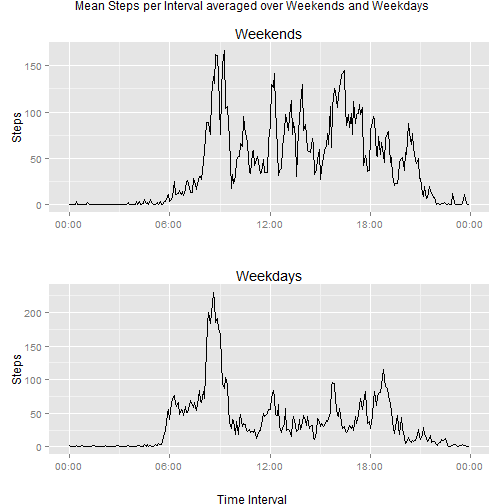
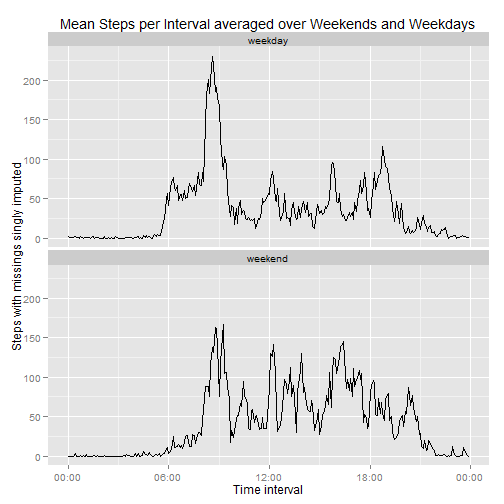
Prettied up a couple output items, and made the last graph to explicity use faceting

Changed region(s): [[0.0, 0.0, 0.9821, 1.0]]

diff --git a/PA1_template.html b/PA1_template.html
@@ -207,13 +207,8 @@ hr {
 
 <pre><code class="r">library(ggplot2)
 library(scales)
-library(gridExtra)
-</code></pre>
-
-<pre><code>## Loading required package: grid
-</code></pre>
-
-<pre><code class="r">datadir &lt;- &quot;.&quot;  # change for other locations
+library(reshape2)
+datadir &lt;- &quot;.&quot;  # change for other locations
 activity &lt;- read.csv(paste(datadir, &quot;/activity.csv&quot;, sep = &quot;&quot;), stringsAsFactors = FALSE)
 </code></pre>
 
@@ -302,10 +297,12 @@ qq
 
 <h3>The interval with the maximum number of steps</h3>
 
-<pre><code class="r">names(which.max(MeanStepsPerInterval))
+<pre><code class="r">maxname &lt;- as.numeric(names(which.max(MeanStepsPerInterval)))
+timename &lt;- sprintf(&quot;%02d:%02d&quot;, maxname %/% 100, maxname %% 100)
+print (timename, quote = FALSE)
 </code></pre>
 
-<pre><code>## [1] &quot;835&quot;
+<pre><code>## [1] 08:35
 </code></pre>
 
 <h2>Imputing missing values</h2>
@@ -389,43 +386,31 @@ ppi
 <pre><code class="r"># convert the character string into a date
 activity$daytype &lt;- ifelse(weekdays(as.Date(activity$date)) %in% c(&quot;Saturday&quot;, &quot;Sunday&quot;), &quot;weekend&quot;, &quot;weekday&quot;)
 
-# it ought to be possible to do the two graphs in one fell swoop using a facets approach
-# the timing is such that I will just try to do them one at a time and then use grid.arrange
-# come back to the point later
-weekdayactivity &lt;- activity[activity$daytype == &quot;weekday&quot;,]
-weekendactivity &lt;- activity[activity$daytype == &quot;weekend&quot;,]
 
-
-weekdayMeanStepsPerInterval &lt;- tapply(weekdayactivity$imputedsteps, weekdayactivity$interval, mean)
-weekdayMeanFrame &lt;- data.frame(interval = as.numeric(names(weekdayMeanStepsPerInterval)), 
-                               MeanSteps = weekdayMeanStepsPerInterval)
-weekdayMeanFrame$hm &lt;- sprintf(&quot;%02d:%02d&quot;, weekdayMeanFrame$interval %/% 100, weekdayMeanFrame$interval %% 100)
-weekdayMeanFrame$time &lt;- strptime(weekdayMeanFrame$hm, &quot;%H:%M&quot;) 
-weekdayMeanFrame$timec &lt;- as.POSIXct(weekdayMeanFrame$time)
-
-qweekday &lt;- ggplot(weekdayMeanFrame, aes(x = timec, y = MeanSteps)) + 
-     scale_x_datetime(labels = date_format(&quot;%H:%M&quot;)) +
-     ggtitle(&quot;Weekdays&quot;) + labs(x = &quot;&quot;, y = &quot;Steps&quot;) +
-     layer(geom = &quot;line&quot;)
-
-
-weekendMeanStepsPerInterval &lt;- tapply(weekendactivity$imputedsteps, weekendactivity$interval, mean)
-weekendMeanFrame &lt;- data.frame(interval = as.numeric(names(weekendMeanStepsPerInterval)), 
-                               MeanSteps = weekendMeanStepsPerInterval)
-weekendMeanFrame$hm &lt;- sprintf(&quot;%02d:%02d&quot;, weekendMeanFrame$interval %/% 100, weekendMeanFrame$interval %% 100)
-weekendMeanFrame$time &lt;- strptime(weekendMeanFrame$hm, &quot;%H:%M&quot;) 
-weekendMeanFrame$timec &lt;- as.POSIXct(weekendMeanFrame$time)
-
-qweekend &lt;- ggplot(weekendMeanFrame, aes(x = timec, y = MeanSteps)) + 
-     scale_x_datetime(labels = date_format(&quot;%H:%M&quot;)) +
-     ggtitle(&quot;Weekends&quot;) + labs(x = &quot;&quot;, y = &quot;Steps&quot;) +
-     layer(geom = &quot;line&quot;) 
-
-grid.arrange(qweekend, qweekday, nrow=2, main = &quot;Mean Steps per Interval averaged over Weekends and Weekdays&quot;,
-             sub = &quot;Time Interval&quot;)
+activitymelt &lt;- melt(activity, id = c(&quot;interval&quot;, &quot;daytype&quot;), measure.vars = (&quot;imputedsteps&quot;))
+str(activitymelt)
 </code></pre>
 
[1 lines of base64/hex data omitted]
+<pre><code>## &#39;data.frame&#39;:    17568 obs. of  4 variables:
+##  $ interval: int  0 5 10 15 20 25 30 35 40 45 ...
+##  $ daytype : chr  &quot;weekday&quot; &quot;weekday&quot; &quot;weekday&quot; &quot;weekday&quot; ...
+##  $ variable: Factor w/ 1 level &quot;imputedsteps&quot;: 1 1 1 1 1 1 1 1 1 1 ...
+##  $ value   : num  1.717 0.3396 0.1321 0.1509 0.0755 ...
+</code></pre>
+
+<pre><code class="r">graphdata &lt;- dcast(activitymelt, interval + daytype ~ variable, mean)
+
+graphdata$hm &lt;- sprintf(&quot;%02d:%02d&quot;, graphdata$interval %/% 100, graphdata$interval %% 100)
+graphdata$timec &lt;- as.POSIXct(strptime(graphdata$hm, &quot;%H:%M&quot;))
+qqq &lt;- ggplot(graphdata, aes(x = timec, y = imputedsteps)) +
+     scale_x_datetime(labels = date_format(&quot;%H:%M&quot;)) +
+     ggtitle(&quot;Mean Steps per Interval averaged over Weekends and Weekdays&quot;) +
+     labs(x = &quot;Time interval&quot;, y = &quot;Steps with missings singly imputed&quot;) +
+     layer(geom = &quot;line&quot;) + facet_wrap(~daytype, nrow = 2)
+qqq
+</code></pre>
+
[1 lines of base64/hex data omitted]
 
 </body>
 

diff --git a/PA1_template.md b/PA1_template.md
@@ -6,14 +6,7 @@ Set up the libraries, and read the data
 ```r
 library(ggplot2)
 library(scales)
-library(gridExtra)
-```
-
-```
-## Loading required package: grid
-```
-
-```r
+library(reshape2)
 datadir <- "."  # change for other locations
 activity <- read.csv(paste(datadir, "/activity.csv", sep = ""), stringsAsFactors = FALSE)
 ```
@@ -120,11 +113,13 @@ qq
 
 
 ```r
-names(which.max(MeanStepsPerInterval))
+maxname <- as.numeric(names(which.max(MeanStepsPerInterval)))
+timename <- sprintf("%02d:%02d", maxname %/% 100, maxname %% 100)
+print (timename, quote = FALSE)
 ```
 
 ```
-## [1] "835"
+## [1] 08:35
 ```
 
 ## Imputing missing values
@@ -223,41 +218,30 @@ For this part the ```weekdays() ``` function may be of some help here. Use the d
 # convert the character string into a date
 activity$daytype <- ifelse(weekdays(as.Date(activity$date)) %in% c("Saturday", "Sunday"), "weekend", "weekday")
 
-# it ought to be possible to do the two graphs in one fell swoop using a facets approach
-# the timing is such that I will just try to do them one at a time and then use grid.arrange
-# come back to the point later
-weekdayactivity <- activity[activity$daytype == "weekday",]
-weekendactivity <- activity[activity$daytype == "weekend",]
 
+activitymelt <- melt(activity, id = c("interval", "daytype"), measure.vars = ("imputedsteps"))
+str(activitymelt)
+```
 
-weekdayMeanStepsPerInterval <- tapply(weekdayactivity$imputedsteps, weekdayactivity$interval, mean)
-weekdayMeanFrame <- data.frame(interval = as.numeric(names(weekdayMeanStepsPerInterval)), 
-                               MeanSteps = weekdayMeanStepsPerInterval)
-weekdayMeanFrame$hm <- sprintf("%02d:%02d", weekdayMeanFrame$interval %/% 100, weekdayMeanFrame$interval %% 100)
-weekdayMeanFrame$time <- strptime(weekdayMeanFrame$hm, "%H:%M") 
-weekdayMeanFrame$timec <- as.POSIXct(weekdayMeanFrame$time)
+```
+## 'data.frame':	17568 obs. of  4 variables:
+##  $ interval: int  0 5 10 15 20 25 30 35 40 45 ...
+##  $ daytype : chr  "weekday" "weekday" "weekday" "weekday" ...
+##  $ variable: Factor w/ 1 level "imputedsteps": 1 1 1 1 1 1 1 1 1 1 ...
+##  $ value   : num  1.717 0.3396 0.1321 0.1509 0.0755 ...
+```
 
-qweekday <- ggplot(weekdayMeanFrame, aes(x = timec, y = MeanSteps)) + 
+```r
+graphdata <- dcast(activitymelt, interval + daytype ~ variable, mean)
+
+graphdata$hm <- sprintf("%02d:%02d", graphdata$interval %/% 100, graphdata$interval %% 100)
+graphdata$timec <- as.POSIXct(strptime(graphdata$hm, "%H:%M"))
+qqq <- ggplot(graphdata, aes(x = timec, y = imputedsteps)) +
      scale_x_datetime(labels = date_format("%H:%M")) +
-     ggtitle("Weekdays") + labs(x = "", y = "Steps") +
-     layer(geom = "line")
-
-
-weekendMeanStepsPerInterval <- tapply(weekendactivity$imputedsteps, weekendactivity$interval, mean)
-weekendMeanFrame <- data.frame(interval = as.numeric(names(weekendMeanStepsPerInterval)), 
-                               MeanSteps = weekendMeanStepsPerInterval)
-weekendMeanFrame$hm <- sprintf("%02d:%02d", weekendMeanFrame$interval %/% 100, weekendMeanFrame$interval %% 100)
-weekendMeanFrame$time <- strptime(weekendMeanFrame$hm, "%H:%M") 
-weekendMeanFrame$timec <- as.POSIXct(weekendMeanFrame$time)
-
-qweekend <- ggplot(weekendMeanFrame, aes(x = timec, y = MeanSteps)) + 
-     scale_x_datetime(labels = date_format("%H:%M")) +
-     ggtitle("Weekends") + labs(x = "", y = "Steps") +
-     layer(geom = "line") 
-
-grid.arrange(qweekend, qweekday, nrow=2, main = "Mean Steps per Interval averaged over Weekends and Weekdays",
-             sub = "Time Interval")
+     ggtitle("Mean Steps per Interval averaged over Weekends and Weekdays") +
+     labs(x = "Time interval", y = "Steps with missings singly imputed") +
+     layer(geom = "line") + facet_wrap(~daytype, nrow = 2)
+qqq
 ```
 
 ![plot of chunk unnamed-chunk-12](figure/unnamed-chunk-12-1.png) 
-
